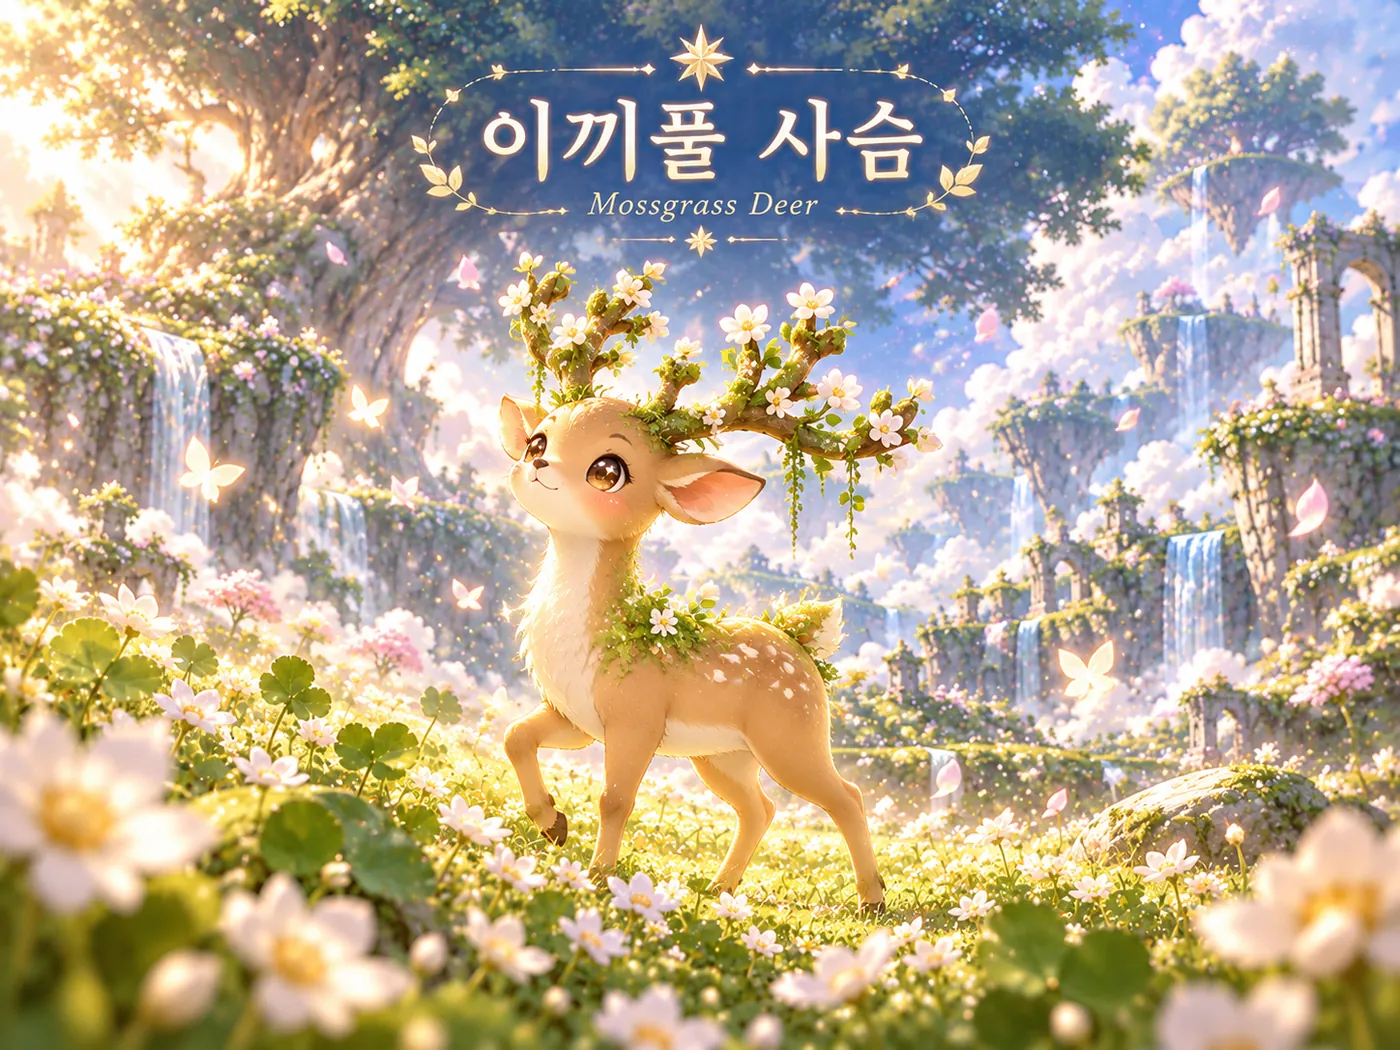
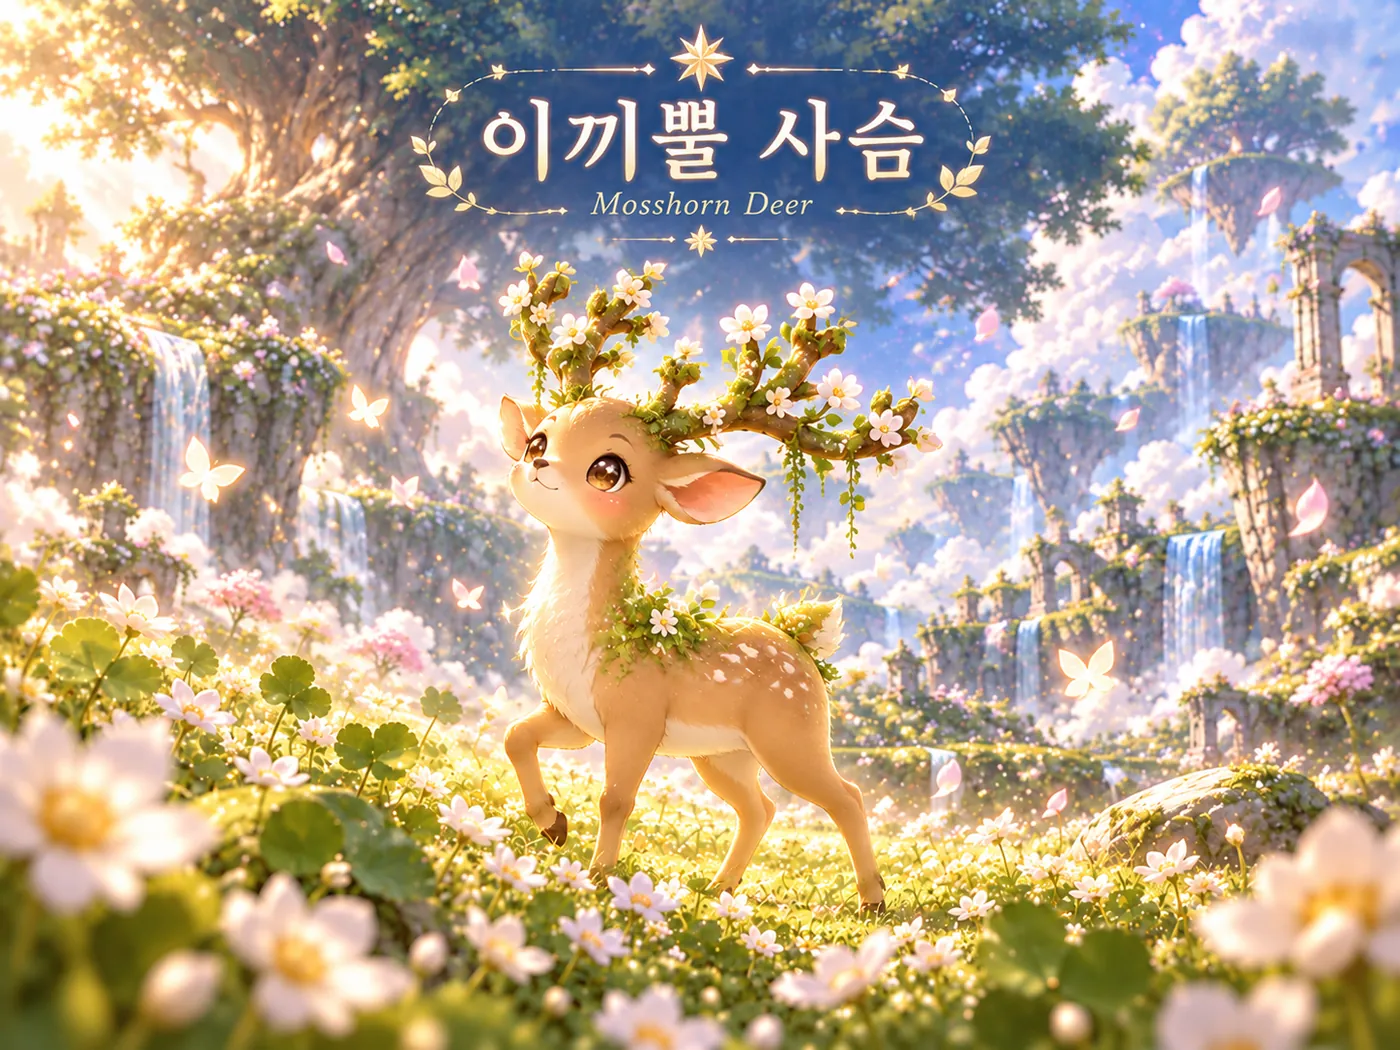
몬스터 도감: 이끼뿔 사슴 컨셉아트 교체(제목 표기 수정본)

diff --git a/index.html b/index.html
@@ -9,7 +9,7 @@
 <link rel="preconnect" href="https://fonts.googleapis.com">
 <link rel="preconnect" href="https://fonts.gstatic.com" crossorigin>
 <link href="https://fonts.googleapis.com/css2?family=Gowun+Batang:wght@400;700&family=Noto+Sans+KR:wght@400;500;600;700&display=swap" rel="stylesheet">
-<link rel="stylesheet" href="assets/style.css?v=202610191125">
+<link rel="stylesheet" href="assets/style.css?v=202610191220">
 </head>
 <body>
 
@@ -2693,7 +2693,7 @@
 <dialog id="modal"><button class="modal-close" type="button" aria-label="닫기">✕</button><div id="modalContent"></div></dialog>
 <dialog id="lightbox" class="lightbox"><button class="modal-close" type="button" aria-label="닫기">✕</button><img alt=""><div class="cap"></div></dialog>
 
-<script src="assets/data.js?v=202610191125"></script>
-<script src="assets/app.js?v=202610191125"></script>
+<script src="assets/data.js?v=202610191220"></script>
+<script src="assets/app.js?v=202610191220"></script>
 </body>
 </html>
